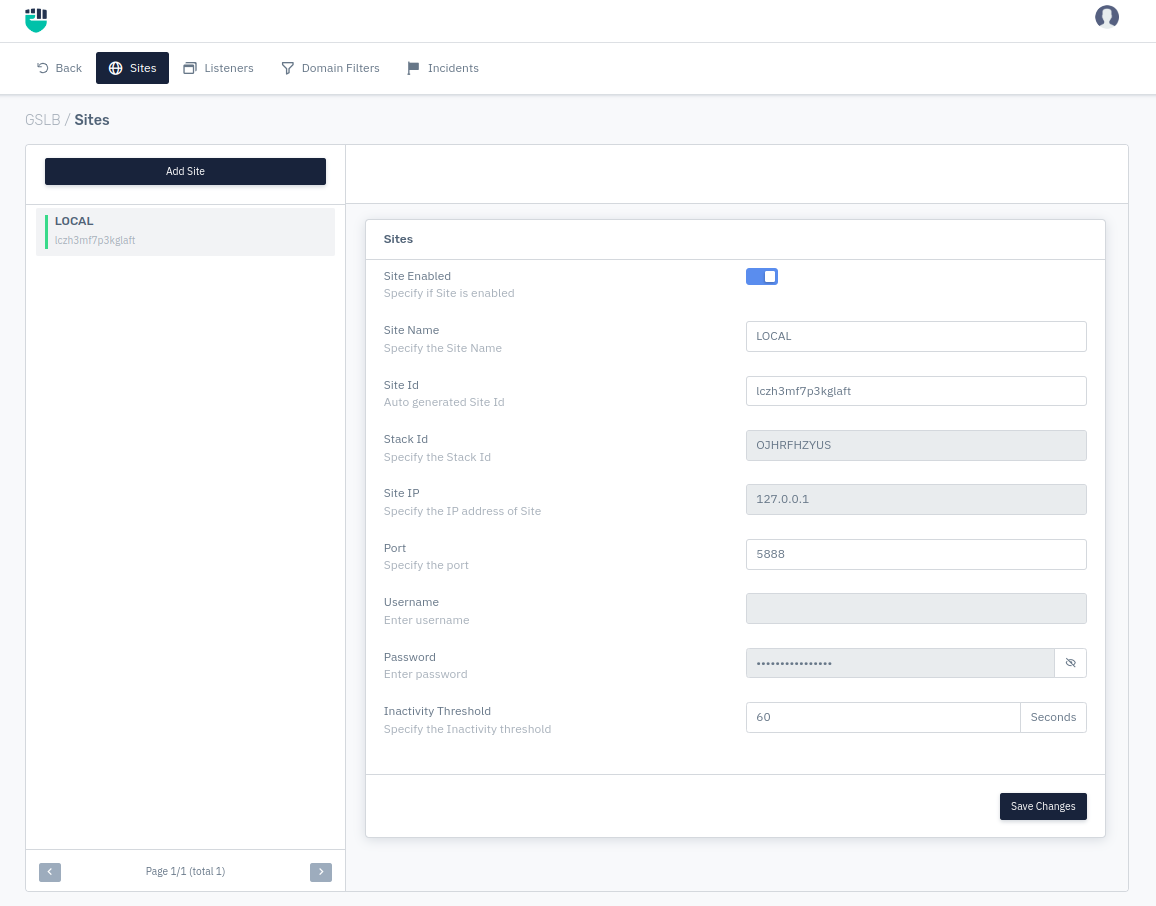
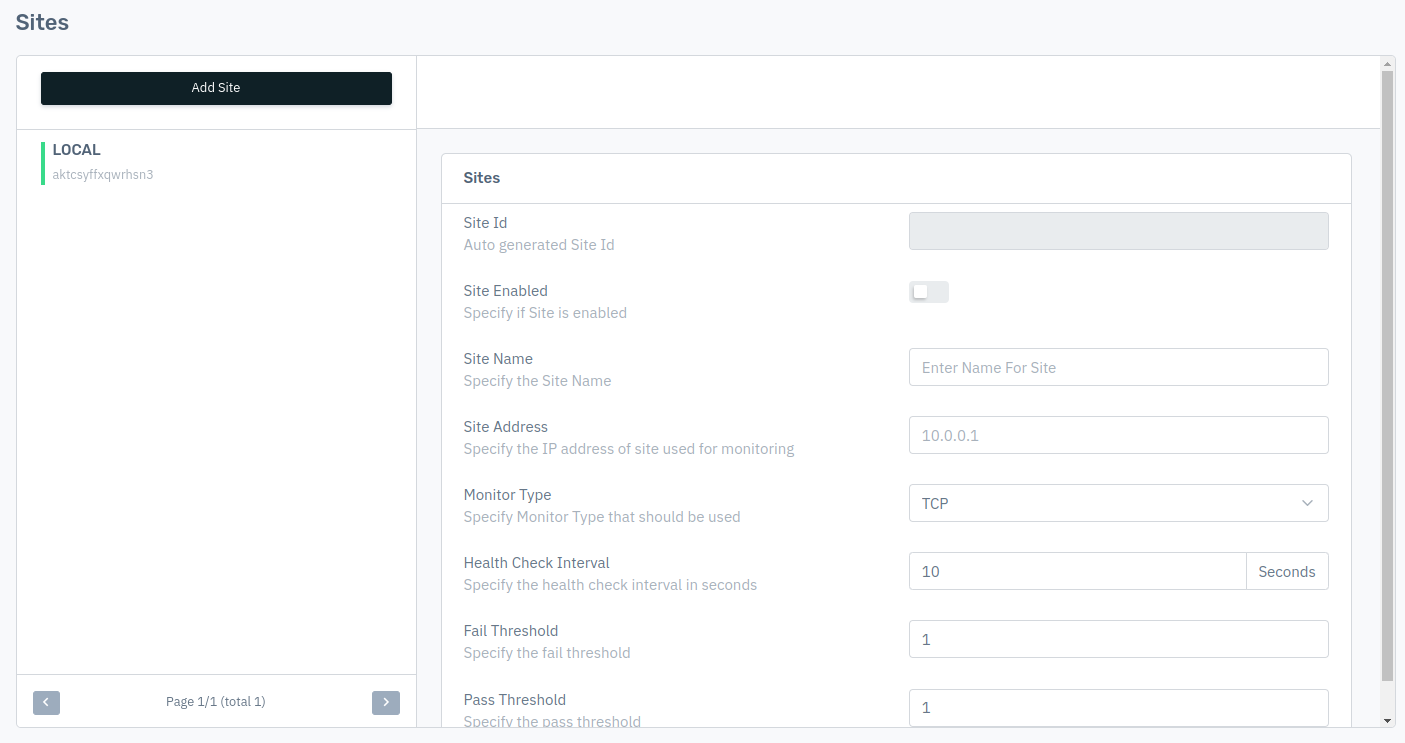
changes

diff --git a/docs/enterprise/gslb/listener/sites.md b/docs/enterprise/gslb/listener/sites.md
@@ -17,13 +17,25 @@ A GSLB site is the logical collection of GSLB virtual server, GSLB service, LB v
 
 ### How to Use
 
-1. Follow the links: **Apps** > **GSLB** > **Sites** > **Add Site**.
+1. Follow the links: **Apps** > **GSLB** > **Listener** > **Site**.
 
-2. Click on **Add Rule** and set relevant parameters described in the table below.
+2. Click on **Add Site** and set relevant parameters described in the table below.
 
 3. Click on **Save Changes**.
 
 ### Description
+
+
+**Site ID**
+
+It is auto generated function.
+
+```
+    Accepted values: String
+
+    Default: Blank 
+```
+
 
 **Site Enabled**
 
@@ -47,9 +59,9 @@ Specify the name for your site.
 ```
 
 
-**Site ID**
+**Site Address**
 
-It is auto generated function.
+Specify the IP address of site used for monitoring
 
 ```
     Accepted values: String
@@ -58,57 +70,73 @@ It is auto generated function.
 ```
 
 
-**Site IP**
+**Monitor Type**
 
-User can Specify the IP address of the Site 
+Specify Monitor Type that should be used
+
 
 ```
-    Accepted values: IP
+    Accepted values: TCP / HTTP / HTTPS / SSL HELLO / ICMP / SCRIPT
+
+    Default: TCP 
+```
+
+
+**Health Check Interval**
+
+Specify the health check interval in seconds
+
+
+```
+    Accepted values: Integer
 
     Default: Blank 
+```
+
+
+**Fail Threshold**
+
+Specify the fail threshold
+
+
+```
+    Accepted values: Integer
+
+    Default: 1 
+```
+
+
+**Pass Threshold**
+
+Specify the pass threshold
+
+
+```
+    Accepted values: String
+
+    Default: 1 
 ```
 
 
 **Port**
 
-It specifies the port number to connect 
+Specify the port
+
 
 ```
     Accepted values: Integer
 
-    Default: Blank 
+    Default: 80
 ```
 
 
-**Username**
+**Timeout**
 
-User can set a username to access the site 
+Specify the timeout
 
-```
-    Accepted values: String
-
-    Default: Blank 
-```
-
-
-**Password**
-
-User can set a password to protect the site from any unknown login
-
-```
-    Accepted values: String
-
-    Default: Blank 
-```
-
-
-**Inactivity Threshold**
-
-In this User can specify when no events or flows are generated in the specified time.
 
 ```
     Accepted values: Integer
 
-    Default: 60
+    Default: 1
 ```
-
